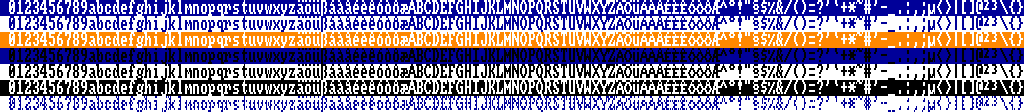
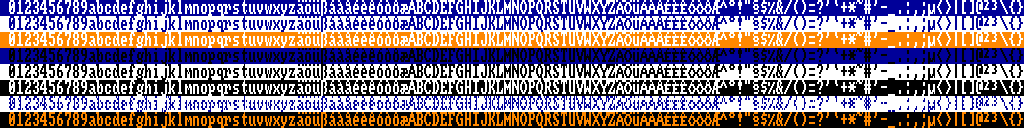
Added font color orange on black

diff --git a/workbench.js b/workbench.js
@@ -1263,7 +1263,7 @@ var Renkbench = (() => {
 				var position = word.children[charId].style.backgroundPosition;
 				var coordinates = position.split(" ");
 				var currentColor = -parseInt(coordinates[1]);
-				var color = currentColor == fontColor.blueOnWhite ? fontColor.whiteOnBlack : fontColor.blueOnWhite;
+				var color = currentColor == fontColor.blueOnWhite ? fontColor.orangeOnBlack : fontColor.blueOnWhite;
 				word.children[charId].style.backgroundPosition = coordinates[0] + " -" + color + "px";
 			}
 		}
@@ -1656,7 +1656,8 @@ var Renkbench = (() => {
 		blackOnBlue : 48,
 		blackOnWhite : 64,
 		whiteOnBlack : 80,
-		blueOnWhiteInactive : 96
+		blueOnWhiteInactive : 96,
+		orangeOnBlack : 112
 	};
 	
 	//Convert string text to amiga style font div-element-text

diff --git a/workbench.css b/workbench.css
@@ -81,6 +81,7 @@ body
 	height: 19px;
 	float: none;
 	text-align: left;
+	padding-left: 2px;
 }
 
 .dropdown-entry:hover {
